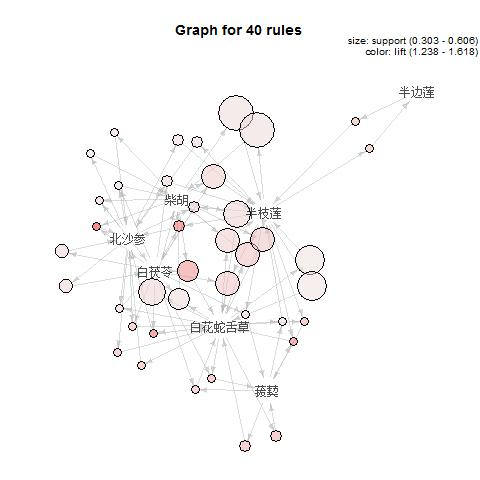
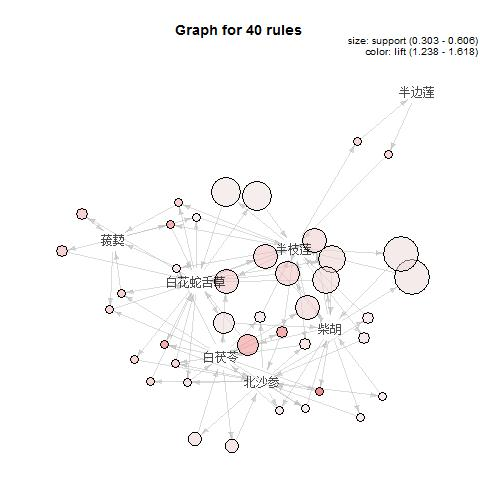
medicine changed

diff --git a/app.js b/app.js
@@ -11,6 +11,7 @@ const cons = require('consolidate')
 let diseases = []
 let binghou = []
 let medicine = []
+let relation_medicine = []
 let zhongyao = {}
 
 let userInfos = {} // user credentials & other info
@@ -24,6 +25,15 @@ if (fs.existsSync(`${__dirname}/data/userInfos.json`)) {
 		console.log(userInfos)
 	})
 }
+
+fs.readFile(`${__dirname}/data/relation_meds.csv`, (err, contents) => {
+	var str = iconv.decode(contents, 'gb18030')
+    csv.parse(str, (err, data) => {
+		data.forEach(d => {
+			relation_medicine.push(d[0]);
+		})
+    })
+})
 
 fs.readFile(`${__dirname}/data/medicine.csv`, (err, contents) => {
    var str = iconv.decode(contents, 'gb18030')
@@ -268,7 +278,7 @@ app.get('/data/zhongyao', (req, res) => {
 })
 
 app.get('/data/medicines', (req, res) => {
-  res.send(medicine.slice(0, 40))
+  res.send(relation_medicine)
 })
 
 app.listen(3000, () => {

diff --git a/static/src/relation.js b/static/src/relation.js
@@ -66,9 +66,9 @@ $("#submit-relation").click(e => {
     for (let i = 1; i < table.length; i++) {
       let row = ""
       table[i].forEach(elem => {
-        row += `<td>${elem}</td>`
+        row += `<td>${elem}</td>`        //creat data cells for the table
       })
-      $("#relation-table tbody").append(`<tr>${row}</tr>`)
+      $("#relation-table tbody").append(`<tr>${row}</tr>`)        //create a row for the table
     }
   })
 })
